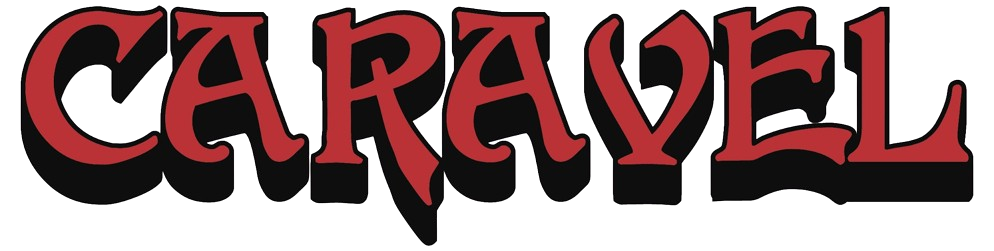
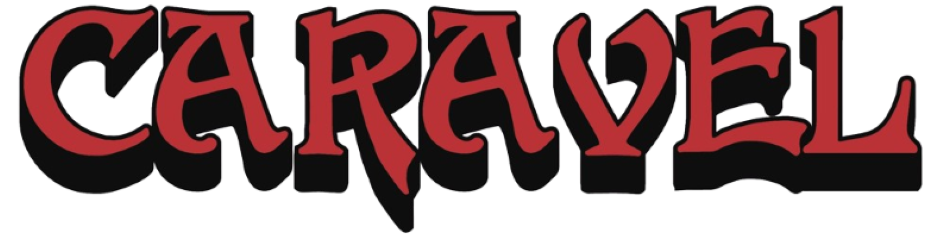
Png resize

diff --git a/css/header.css b/css/header.css
@@ -63,7 +63,7 @@ header {
   .nav-bar {
     flex-direction: column;
     align-items: stretch;
-    padding: 1em; /* ✅ Reduced for balance */
+    padding: 1em;
     gap: 1em;
   }
 
@@ -72,10 +72,17 @@ header {
     justify-content: space-between;
     align-items: center;
     width: 100%;
+    padding: 0 1em;
+  }
+
+  .logo {
+    display: flex;
+    align-items: center;
   }
 
   .logo img {
     max-height: 70px;
+    display: block;
   }
 
   .menu-toggle {
@@ -117,4 +124,5 @@ header {
     background-color: #222;
   }
 }
+
 
